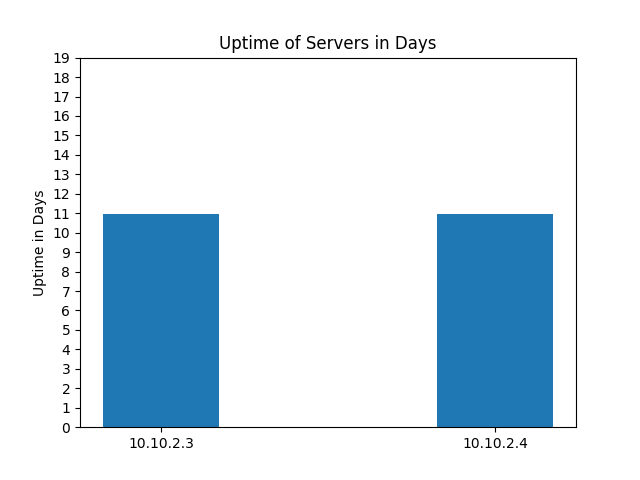
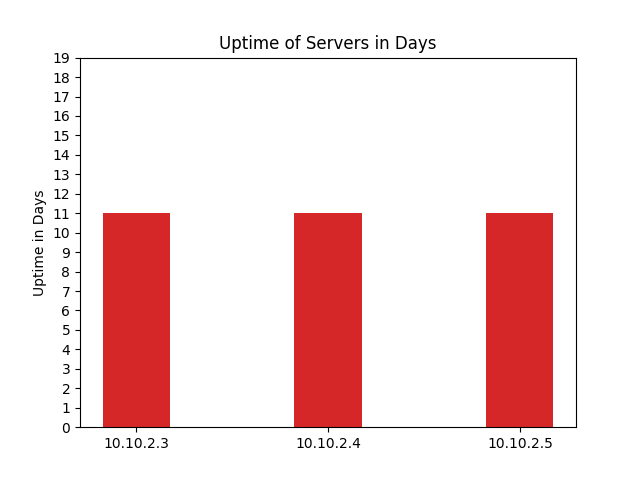
slq finally something i know and am good at

Changed region(s): [[0.6562, 0.4375, 0.875, 0.9375], [0.1562, 0.4375, 0.3438, 0.9375], [0.4375, 0.4375, 0.5625, 0.9375]]

diff --git a/sqldb/database03.py b/sqldb/database03.py
@@ -1,0 +1,18 @@
+#!/usr/bin/env python3
+
+import sqlite3
+conn = sqlite3.connect('test.db')
+print("Opened database successfully")
+
+conn.execute("INSERT INTO COMPANY (ID,NAME,AGE,ADDRESS,SALARY) VALUES (1, 'Paul', 32, 'California', 20000.00 )")
+
+conn.execute("INSERT INTO COMPANY (ID,NAME,AGE,ADDRESS,SALARY) VALUES (2, 'Allen', 25, 'Texas', 15000.00 )")
+
+conn.execute("INSERT INTO COMPANY (ID,NAME,AGE,ADDRESS,SALARY) VALUES (3, 'Teddy', 23, 'Norway', 20000.00 )")
+
+conn.execute("INSERT INTO COMPANY (ID,NAME,AGE,ADDRESS,SALARY) VALUES (4, 'Mark', 25, 'Rich-Mond ', 65000.00 )")
+
+conn.commit()
+print("Records created successfully")
+conn.close()
+

diff --git a/sqldb/database05.py b/sqldb/database05.py
@@ -1,0 +1,21 @@
+#!/usr/bin/env python3
+
+import sqlite3
+
+conn = sqlite3.connect('test.db')
+print("Opened database successfully")
+
+conn.execute("UPDATE COMPANY set SALARY = 25000.00 where ID = 1")
+conn.commit()
+print("Total number of rows updated :", conn.total_changes)
+
+cursor = conn.execute("SELECT id, name, address, salary from COMPANY")
+for row in cursor:
+    print("ID = ", row[0])
+    print("NAME = ", row[1])
+    print("ADDRESS = ", row[2])
+    print("SALARY = ", row[3], "\n")
+
+print("Operation done successfully")
+conn.close()
+

diff --git a/sqldb/database06.py b/sqldb/database06.py
@@ -1,0 +1,21 @@
+#!/usr/bin/env python3
+
+import sqlite3
+
+conn = sqlite3.connect('test.db')
+print("Opened database successfully")
+
+conn.execute("DELETE from COMPANY where ID = 2;")
+conn.commit()
+print("Total number of rows deleted :", conn.total_changes)
+
+cursor = conn.execute("SELECT id, name, address, salary from COMPANY")
+for row in cursor:
+    print("ID = ", row[0])
+    print("NAME = ", row[1])
+    print("ADDRESS = ", row[2])
+    print("SALARY = ", row[3], "\n")
+
+print("Operation done successfully")
+conn.close()
+

diff --git a/sqldb/database04.py b/sqldb/database04.py
@@ -1,0 +1,15 @@
+#!/usr/bin/env python3
+
+import sqlite3
+conn = sqlite3.connect('test.db')
+print("Opened database successfully")
+cursor = conn.execute("SELECT id, name, address, salary from COMPANY")
+for row in cursor:
+    print("ID = ", row[0])
+    print("NAME = ", row[1])
+    print("ADDRESS = ", row[2])
+    print("SALARY = ", row[3], "\n")
+
+print("Operation done successfully")
+conn.close()
+

diff --git a/sqldb/database02v2.py b/sqldb/database02v2.py
@@ -1,0 +1,14 @@
+#!/usr/bin/env python3
+
+import sqlite3
+conn = sqlite3.connect('test.db')
+print("Opened database successfully")
+conn.execute('''CREATE TABLE IF NOT EXISTS COMPANY
+ (ID INT PRIMARY KEY     NOT NULL,
+ NAME           TEXT    NOT NULL,
+ AGE            INT     NOT NULL,
+ ADDRESS        CHAR(50),
+ SALARY         REAL);''')
+print("Table created successfully")
+conn.close()
+

diff --git a/sqldb/database02.py b/sqldb/database02.py
@@ -1,0 +1,14 @@
+#!/usr/bin/env python3
+
+import sqlite3
+conn = sqlite3.connect('test.db')
+print("Opened database successfully")
+conn.execute('''CREATE TABLE COMPANY
+ (ID INT PRIMARY KEY     NOT NULL,
+ NAME           TEXT    NOT NULL,
+ AGE            INT     NOT NULL,
+ ADDRESS        CHAR(50),
+ SALARY         REAL);''')
+print("Table created successfully")
+conn.close()
+

diff --git a/flaskapi/graphapp01.py b/flaskapi/graphapp01.py
@@ -36,7 +36,7 @@ def graphin():
     svruptime = tuple(svruptime)
 
     # graphin
-    N = 2 # total number of bars
+    N = 3 # total number of bars
     ind = np.arange(N)    # the x locations for the groups
     width = 0.35       # the width of the bars: can also be len(x) sequence
     p1 = plt.bar(ind, svruptime, width)

diff --git a/sqldb/database01.py b/sqldb/database01.py
@@ -1,0 +1,6 @@
+#!/usr/bin/python3
+
+import sqlite3
+conn = sqlite3.connect('test.db')
+print("Opened database successfully")
+
